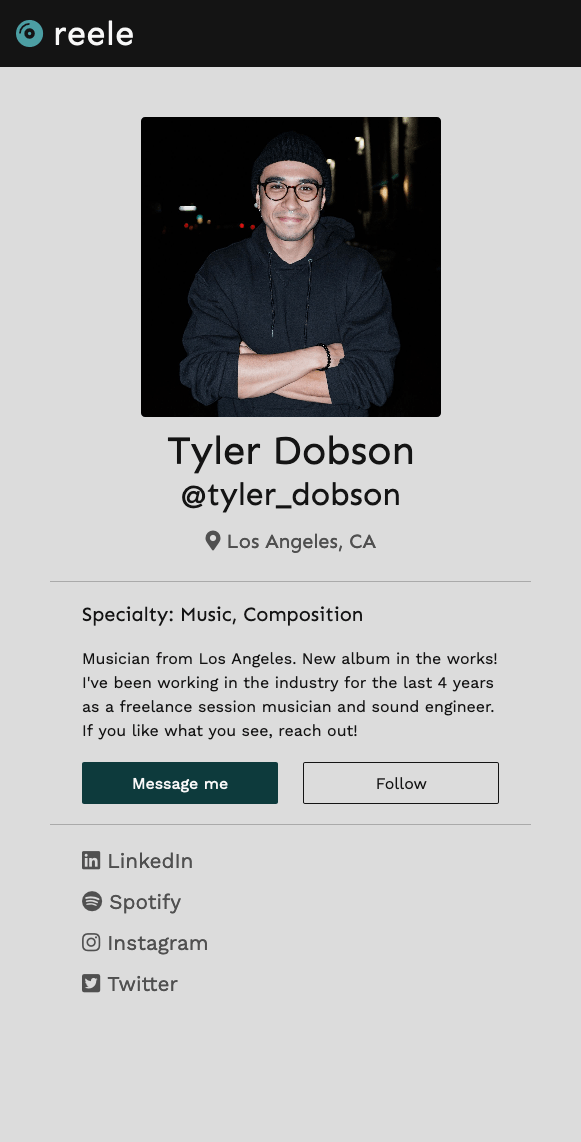
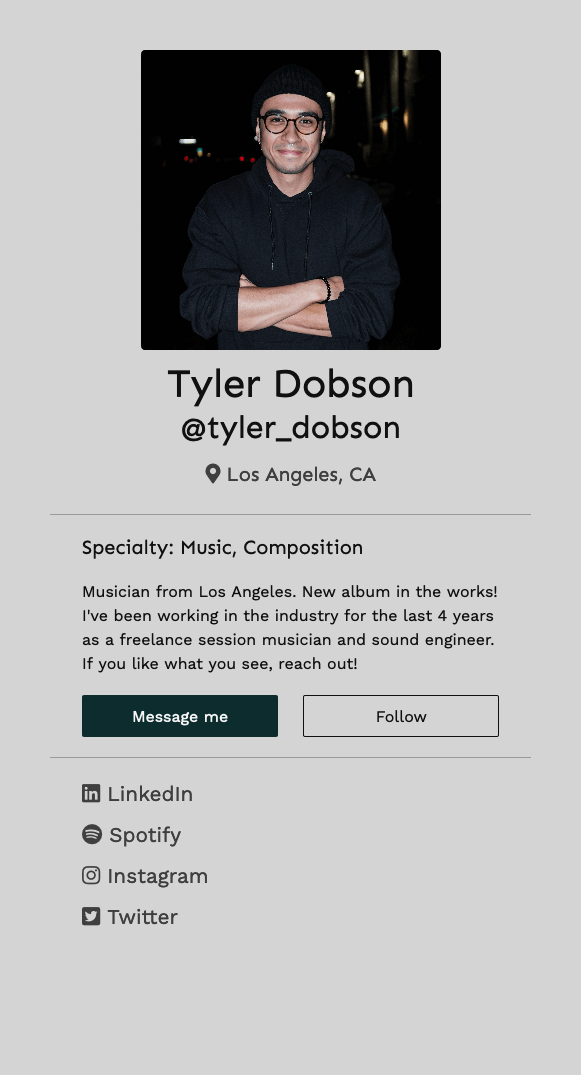
clean up image grid classes

Changed region(s): [[0.0, 0.0, 1.0, 0.8902], [0.8365, 0.6447, 0.8675, 0.706]]

diff --git a/src/projects/reele.html b/src/projects/reele.html
@@ -5,19 +5,18 @@ page_title: Reele
 
 <section class="flex-grow order-2">
   <div class="flex flex-col items-center pr-4">
-    <!-- Project -->
     <div class="max-w-7xl">
-      <img class="w-full" src="../../img/projects/reele-home-thumb.png" alt="Reele homepage banner">
+      <img src="../../img/projects/reele-home-thumb.png" alt="Reele homepage banner">
 
       <div class="flex flex-col justify-between px-6 py-12 md:flex-row">
         <div class="mb-8">
-          <h3 class="inline-block mb-4 text-4xl">
+          <h3 class="mb-4 text-4xl">
             Reele
           </h3>
           <div class="w-40 h-1 bg-gray-800"></div>
           <a class="text-green-600 transition-colors duration-200 hover:text-green-800" href="http://www.reele.co" target="_blank">reele.co</a>
         </div>
-        <div class="inline-block w-5/6 space-y-6 md:pl-2 md:w-2/4">
+        <div class="w-5/6 space-y-6 md:pl-2 md:w-2/4">
           <p class="leading-relaxed">
             Reele is a prototype application for audio professionals to showcase their work and connect with other audiophiles. The application was built at Le Wagon over a 7-day sprint with a 4-person team. <a class="text-green-600 transition-colors duration-200 hover:text-green-800" href="https://youtu.be/L9Pvj2iJ6po?t=6071" target="_blank">Watch our live demo here.</a>
           </p>
@@ -28,17 +27,17 @@ page_title: Reele
       </div>
 
       <div class="grid grid-cols-1 gap-4 md:grid-cols-2 md:flex-row">
-        <img class="inline-block object-cover w-full h-full" src="../../img/projects/reele-profile-thumb-02.png" alt="">
+        <img class="object-cover h-full" src="../../img/projects/reele-profile-thumb-02.png" alt="">
 
         <div class="flex flex-col justify-between space-y-4">
-          <img class="inline-block object-contain w-full" src="../../img/projects/reele-project-video-thumb.png" alt="">
-          <img class="inline-block object-contain w-full" src="../../img/projects/reele-project-audio-thumb.png" alt="">
-          <img class="inline-block object-contain w-full" src="../../img/projects/reele-project-soundcloud-thumb.png" alt="">
+          <img src="../../img/projects/reele-project-video-thumb.png" alt="">
+          <img src="../../img/projects/reele-project-audio-thumb.png" alt="">
+          <img src="../../img/projects/reele-project-soundcloud-thumb.png" alt="">
         </div>
       </div>
 
       <div class="flex justify-start px-6 py-12 md:justify-end">
-        <div class="inline-block w-5/6 space-y-6 md:pl-2 md:w-2/4">
+        <div class="w-5/6 space-y-6 md:pl-2 md:w-2/4">
           <p class="leading-relaxed">
             Reele aimed to fill a void for all audio profesisonals. We considered the fact that applications like SoundCloud and Bandcamp exist but they gear more towards music. For film composers and sound designers, they may use Vimeo or YouTube. There didn't seem to be one place for all audio engineers to host their work in an elegant way that encouraged interaction and discovery within the industry.
           </p>
@@ -48,16 +47,17 @@ page_title: Reele
         </div>
       </div>
 
-      <div class="grid grid-cols-1 gap-4 md:grid-cols-2 md:flex-row">
-        <div class="flex flex-col justify-between space-y-4">
-          <img class="inline-block object-contain w-full" src="../../img/projects/reele-dashboard-public-thumb.png" alt="">
-          <img class="inline-block object-contain w-full" src="../../img/projects/reele-dashboard-private-thumb.png" alt="">
+      <div class="grid grid-cols-1 gap-4 md:grid-cols-3">
+        <img class="w-full md:col-span-3" src="../../img/projects/reele-messages-thumb.png" alt="">
+        <div class="flex flex-col justify-between space-y-4 md:col-span-2">
+          <img src="../../img/projects/reele-dashboard-public-thumb.png" alt="">
+          <img src="../../img/projects/reele-dashboard-private-thumb.png" alt="">
         </div>
-        <img class="flex-shrink inline-block object-contain w-full" src="../../img/projects/reele-messages-thumb.png" alt="">
+        <img class="object-cover w-full h-full" src="../../img/projects/reele-profile-thumb-01.png" alt="">
       </div>
 
       <div class="flex justify-start px-6 py-12 md:justify-end">
-        <div class="inline-block w-5/6 space-y-6 md:pl-2 md:w-2/4">
+        <div class="w-5/6 space-y-6 md:pl-2 md:w-2/4">
           <p class="leading-relaxed">
             As a former filmmaker and photographer, I have used many tools to host my work. A big inspiration for Reele's dashboard came from my experience with Vimeo. We wanted Reele users to have the ability to not only showcase their portfolio publicly but also use it to host projects privately, allowing them to pass work around their network for feedback, send current work-in-progress versions to clients, or show potential employers projects they are not allowed to publicly display.
           </p>

diff --git a/src/projects/gamestahp.html b/src/projects/gamestahp.html
@@ -5,19 +5,18 @@ page_title: Gamestahp
 
 <section class="flex-grow order-2">
   <div class="flex flex-col items-center pr-4">
-    <!-- Project -->
     <div class="max-w-7xl">
-      <img class="w-full" src="../../img/projects/gamestahp-home.png" alt="Gamestahp homepage banner">
+      <img src="../../img/projects/gamestahp-home.png" alt="Gamestahp homepage banner">
 
       <div class="flex flex-col justify-between px-6 py-12 md:flex-row">
         <div class="mb-8">
-          <h3 class="inline-block mb-4 text-4xl">
+          <h3 class="mb-4 text-4xl">
             GameStahp
           </h3>
           <div class="h-1 bg-gray-800 w-60"></div>
           <a class="text-red-600 transition-colors duration-200 hover:text-red-800" href="https://gamestahp.xyz/" target="_blank">gamestahp.xyz</a>
         </div>
-        <div class="inline-block w-5/6 space-y-6 md:pl-2 md:w-2/4">
+        <div class="w-5/6 space-y-6 md:pl-2 md:w-2/4">
           <p class="leading-relaxed">
             GameStahp is my ongoing personal playground application for small, browser-based games. I wanted to build out a site that anyone could visit to play their favorite nostalgic games anytime, anywhere.
           </p>
@@ -27,14 +26,14 @@ page_title: Gamestahp
         </div>
       </div>
 
-      <div class="grid grid-cols-1 gap-4 sm:grid-cols-2 md:grid-cols-3 md:flex-row">
-        <img class="w-full md:col-span-1" src="../../img/projects/gamestahp-snake.png" alt="Snake game preview">
-        <img class="w-full md:col-span-1" src="../../img/projects/gamestahp-brickbreaker.png" alt="Brick Breaker game preview">
-        <img class="w-full md:col-span-1 sm:col-span-2" src="../../img/projects/gamestahp-minesweeper.png" alt="Minesweeper preview">
+      <div class="grid grid-cols-1 gap-4 md:grid-cols-2 lg:grid-cols-3">
+        <img class="lg:col-span-1" src="../../img/projects/gamestahp-snake.png" alt="Snake game preview">
+        <img class="lg:col-span-1" src="../../img/projects/gamestahp-brickbreaker.png" alt="Brick Breaker game preview">
+        <img class="lg:col-span-1 md:col-span-2" src="../../img/projects/gamestahp-minesweeper.png" alt="Minesweeper preview">
       </div>
 
       <div class="flex justify-start px-6 py-12 md:justify-end">
-        <div class="inline-block w-5/6 space-y-6 md:pl-2 md:w-2/4">
+        <div class="w-5/6 space-y-6 md:pl-2 md:w-2/4">
           <p class="leading-relaxed">
             The art direction for the site is a mixture of old-school arcade cabinets and a shameless parody of GameStop. Each game's design was inspired by my first encounter with them -- Snake from the old Nokia phones my older cousins had, Brick Breaker from the original GameBoy, and Minesweeper from my old Windows computer. There are instructions and rules for each.
           </p>
@@ -44,7 +43,7 @@ page_title: Gamestahp
         </div>
       </div>
 
-      <img class="w-full" src="../../img/projects/gamestahp-minesweeper-info.png" alt="Gamestahp homepage banner">
+      <img class="w-full" src="../../img/projects/gamestahp-minesweeper-info.png" alt="Minesweeper rules and instructions">
     </div>
   </div>
 </section>
